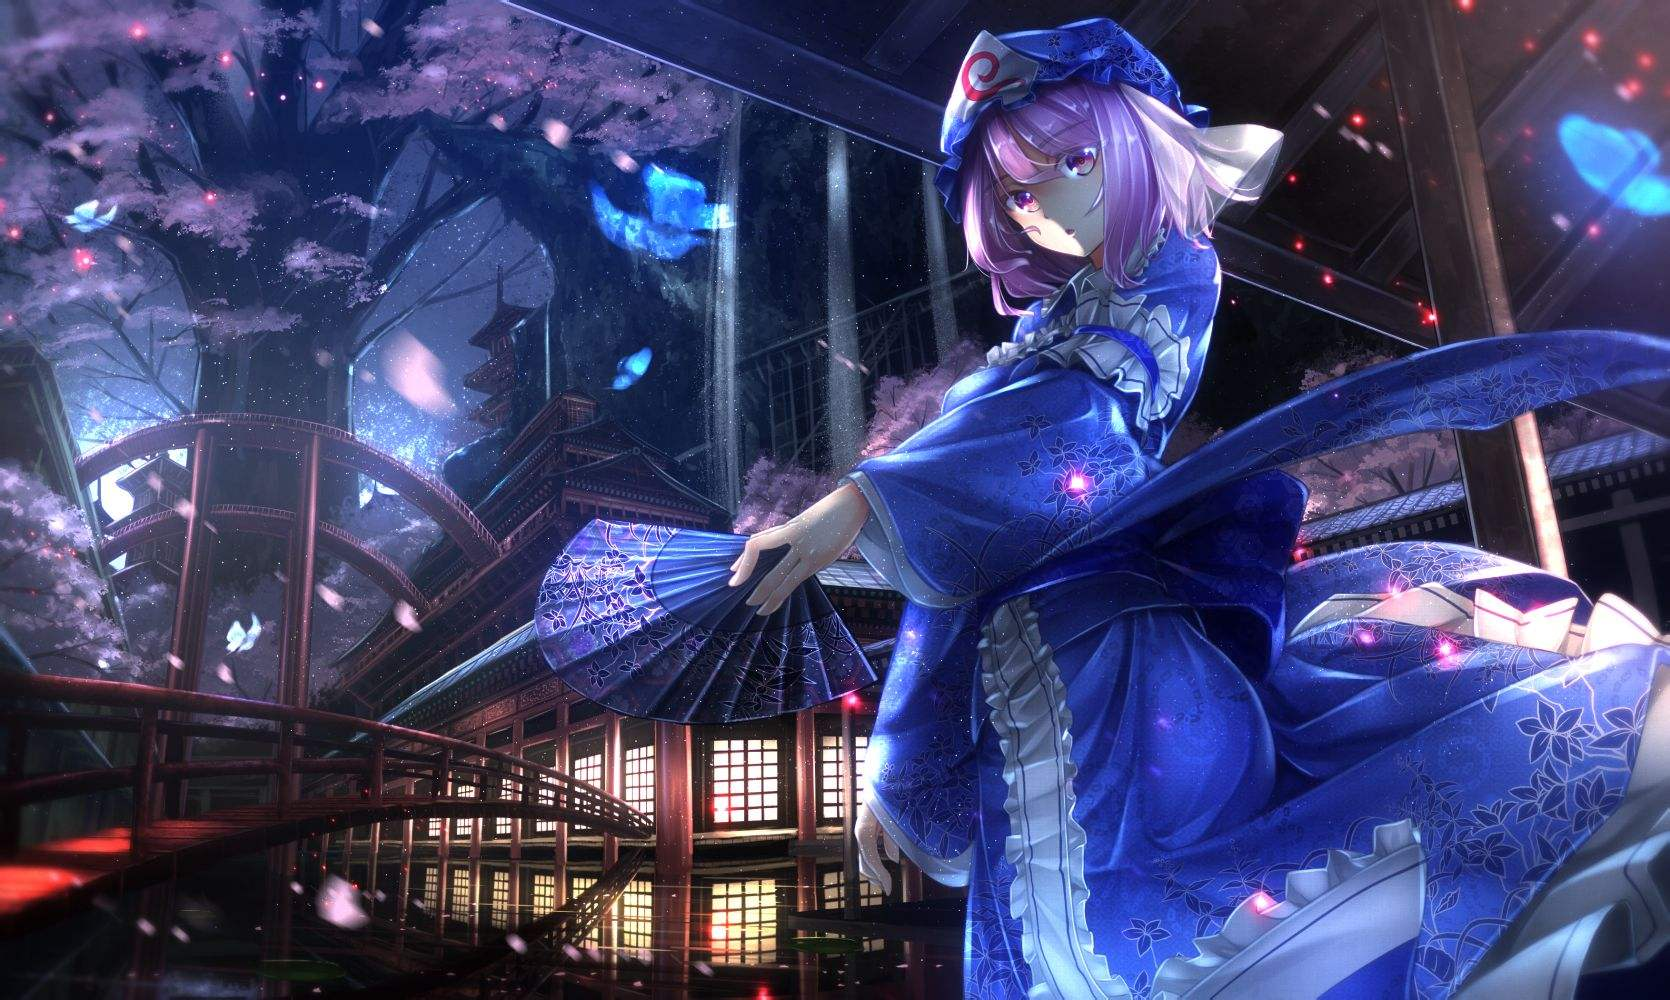
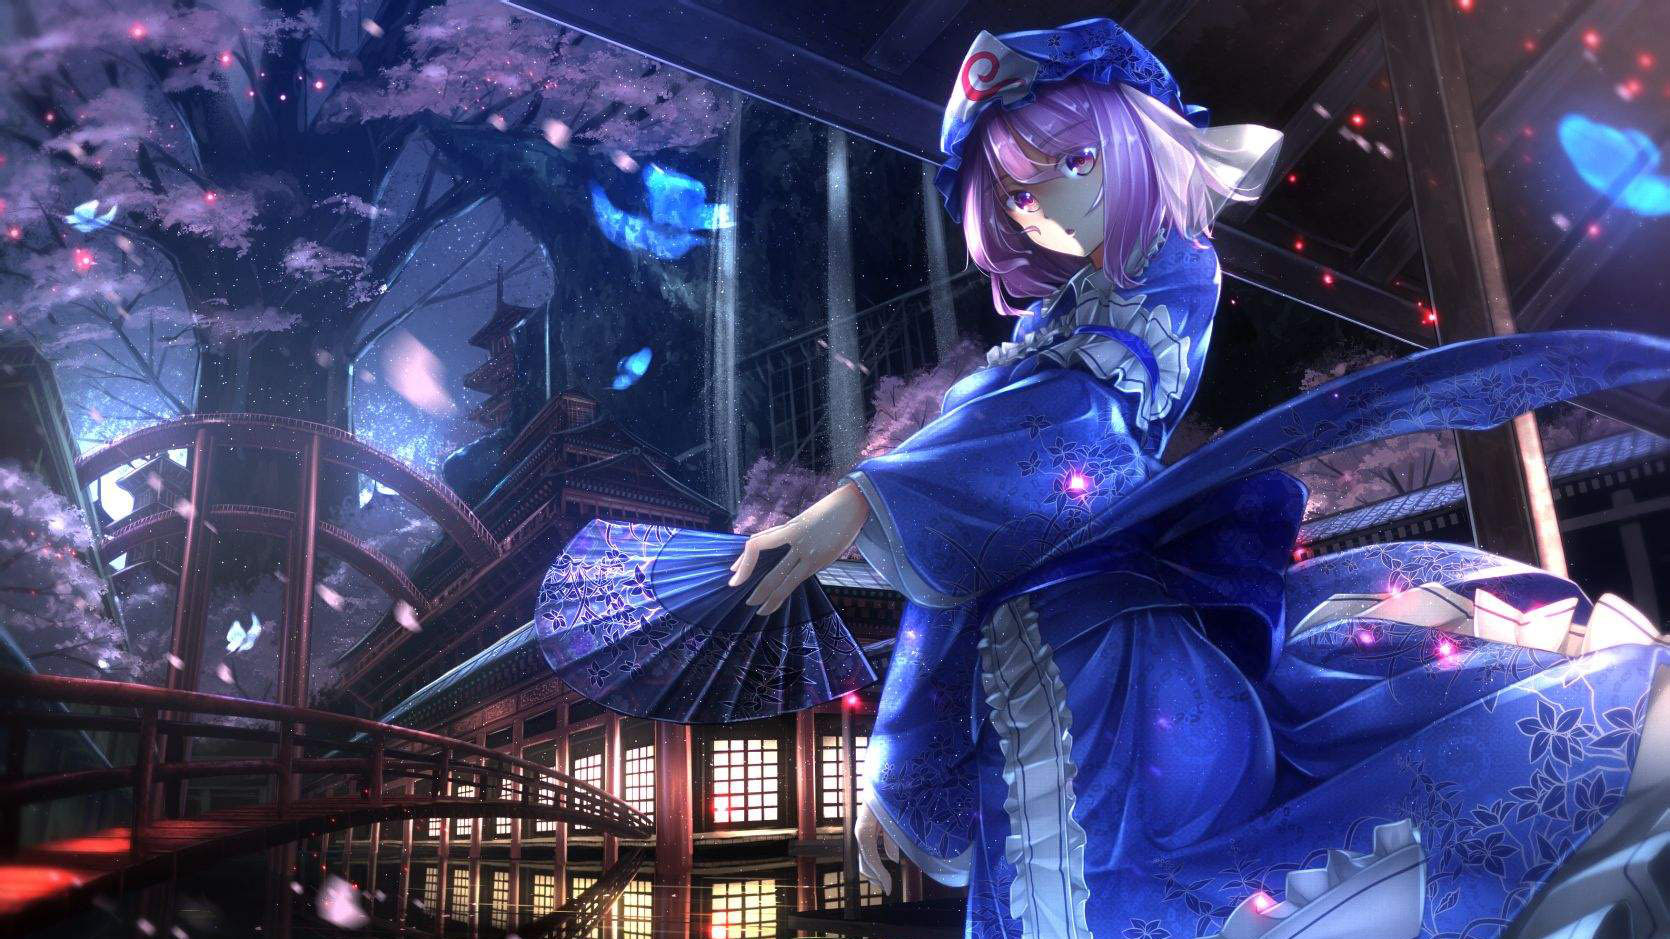
test

diff --git a/css/style.css b/css/style.css
@@ -21,7 +21,7 @@ body
     text-align: left;
     text-justify:inter-word;
 
-    background: url("/css/images/yuyuko.jpg") no-repeat fixed;
+    background: url("/css/images/yuyuko.jpg") no-repeat fixed center;
     background-size:auto 100%;
 
     top:0px;
